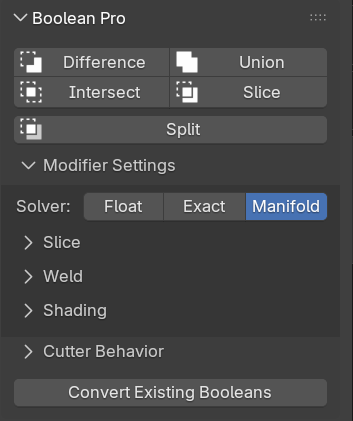
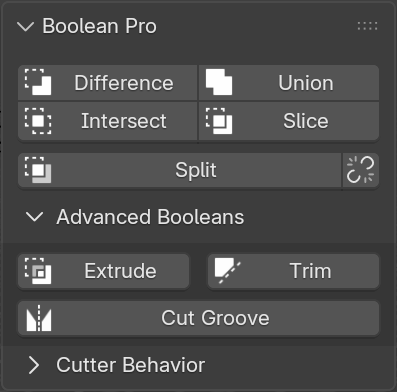
2.0 progress

diff --git a/docs/add-on/boolean_pro.md b/docs/add-on/boolean_pro.md
@@ -2,11 +2,14 @@
 
 ![bpro panel](../assets/add-on/bpro_panel.png)
 
-These tools make it easier to use the [Boolean Pro](../mesh_tools/boolean_pro.md) modifier.
+This panel lets you quickly set up Boolean modifiers on selected geometry. Modifiers are added to the active object, other selected objects will be added as cutters. There are operators for adding the following modifiers:
 
-## Top Panel Operators
+- [Boolean Pro](../mesh_tools/boolean_pro.md)
+- [Boolean Extrude](../mesh_tools/boolean_extrude.md)
+- [Boolean Trim](../mesh_tools/boolean_trim.md)
+- [Cut Groove](../mesh_tools/cut_groove.md)
 
-The top of the panel contains operators for all Boolean Pro modes.
+
 
 <div class="grid cards" markdown>
 
@@ -20,6 +23,12 @@ The top of the panel contains operators for all Boolean Pro modes.
 
 </div>
 
+## Boolean Pro Operators
+
+The top of the panel contains operators for all Boolean Pro modes.
+
+
+
 ### Operations
 
 | Intersect | Union | Difference | Slice |
@@ -31,13 +40,23 @@ The top of the panel contains operators for all Boolean Pro modes.
 The "Split" Operator will duplicate the object:
 
 - The original will get a **Difference** Boolean
-- The duplicate will get a **Intersect** Boolean. There is an option under [Cutter Behavior](#cutter-behavior) to make the intersection object linked.
+- The duplicate will get a **Intersect** Boolean.
+- The duplicate can be a linked copy by toggling the link option next to the button.
+
+## Advanced Boolean Operators
+
+The "Advanced Booleans" section lets you add the following modifiers:
+
+- [Boolean Extrude](../mesh_tools/boolean_extrude.md)
+- [Boolean Trim](../mesh_tools/boolean_trim.md)
+- [Cut Groove](../mesh_tools/cut_groove.md)
+
+
 
 ## Modifier Settings
 
-This section lets you change what settings the Boolean Pro modifiers get **before being added** (Settings for existing modifiers won't be updated).
+To change the default settings for any modifier, use the [Modifier Defaults](./modifier_defaults.md) menu to save defaults from a modifier.
 
-All options in this section are covered on the [Boolean Pro modifier](../mesh_tools/boolean_pro.md) page.
 
 
 ## Cutter Behavior

diff --git a/docs/changelog.md b/docs/changelog.md
@@ -29,25 +29,26 @@
 	- Added option to convert geometry to an instance before mirroring. This works well when using the object as an insert mesh with [Surface Insert](./mesh_tools/surface_insert.md).
 
 ### Pro Add-on
-- Single file download/install for normalMagic Pro (Asset library is now packaged with the add-on.)
-- New Panel: Surface Integration. Contains operators for:
+- Single file download/install for normalMagic Pro (Asset library is now packaged with the add-on)
+- New Panel: [Surface Integration](./add-on/surface_integration.md). Contains operators for:
 	- [Surface Insert](./mesh_tools/surface_insert.md)
 	- [Project to Surface](./mesh_tools/project_to_surface.md)
 	
-- New Panel: Modifier References.
-- New Panel: Object Display.
-- Boolean Pro Panel.
+- New Panel: [Modifier References](./add-on/modifier_references.md)
+- New Panel: [Object Display](./add-on/object_display.md)
+- [Boolean Pro Panel](./add-on/boolean_pro.md)
 	- "Advanced Boolean" sub-panel contains new operators:
 		- [Boolean Extrude](./mesh_tools/boolean_extrude.md)
 		- [Boolean Trim](./mesh_tools/boolean_trim.md)
 		- [Cut Groove](./mesh_tools/cut_groove.md)
-	- Modifier Settings now handled by the modifier defaults system
-- Modifier Menu Header Bar.
-	- [Mark Sharp](./other_tools/mark_sharp.md). Available in the modifier header.
-- Modifier Defaults:
-- Boolean Pro Panel:
+	- Modifier Settings now handled by the [modifier defaults](./add-on/modifier_defaults.md) system
+- [Modifier Header Bar](./add-on/modifier_header.md).
+	- [Mark Sharp](./other_tools/mark_sharp.md). Available in the modifier header
+- [Modifier Defaults](./add-on/modifier_defaults.md). Save default settings for modifiers added via the add-on
+
 
 ----
+
 
 ## 1.1
 

diff --git a/docs/index.md b/docs/index.md
@@ -2,6 +2,15 @@
 
 Welcome to the **normalMagic** documentation. Here you'll find everything there is to know about the tools.
 
+!!! warning "Blender 5.0 Required"
+    normalMagic 2.0 requires **Blender 5.0** or higher. For 4.5 support please use version [1.1](https://spaghetmenot.github.io/normalmagic/1.1/)
+
+!!! warning "2.0 Docs Incomplete"
+    normalMagic 2.0 is currently in Beta and the docs haven't yet been fully updated.
+
+    The best place to get support is the spaghetTools [:simple-discord: Discord](https://discord.gg/CtpZWGHFhG)
+
+
 <div class="grid cards" markdown>
 
 - [:octicons-download-16: Install normalMagic](install.md)
@@ -9,8 +18,6 @@ Welcome to the **normalMagic** documentation. Here you'll find everything there 
 
 </div>
 
-!!! warning "Blender Compatibility"
-    normalMagic 2.0 requires **Blender 5.0** or higher. For 4.5 support please use version [1.1](https://spaghetmenot.github.io/normalmagic/1.1/)
 
 ## Quick Links
 <div class="grid cards" markdown>

diff --git a/docs/add-on/modifier_header.md b/docs/add-on/modifier_header.md
@@ -1,0 +1,19 @@
+# Modifier Header
+
+![modifier header](../assets/add-on/modifier_header.png)
+
+The optional modifier header bar gives quick access to several normalMagic features without using the sidebar. From left to right:
+
+### Expand Arrow
+
+Show the [Modifier References](./modifier_references.md) panel below.
+
+### Operators Bar
+
+A row of buttons for quickly adding normalMagic operators. These can configured in [preferences](./preferences.md). 
+
+All of these allow for multi-object selection, for assigning cutters for example.
+
+### Modifier Defaults
+
+Saves all the settings for the active modifier. This will be used any time a modifier of the same type is added via the add-on. See [here](./modifier_defaults.md) for more info.

diff --git a/docs/add-on/modifier_defaults.md b/docs/add-on/modifier_defaults.md
@@ -1,0 +1,8 @@
+# Modifier Defaults
+
+You can save default settings for any modifier added via the normalMagic add-on (not Blender's 'Add Modifier' menu).
+
+This is achieved through the **Modifier Defaults** menu, available in the modifier panel header bar and the [Modifier References](./modifier_references.md) panel.
+
+![modifier defaults locations](../assets/add-on/modifier_defaults.png)
+

diff --git a/docs/add-on/preferences.md b/docs/add-on/preferences.md
@@ -2,5 +2,7 @@
 
 These options show up under ***Edit/Preferences/Add-ons/normalMagic***
 
+## UI
+
 - **Show Sidebar Panel.** Enable/Disable the add-on's sidebar panel
 - **Category.** Choose which sidebar category the panel is located in

diff --git a/docs/add-on/surface_integration.md b/docs/add-on/surface_integration.md
@@ -1,0 +1,1 @@
+# :construction: Surface Integration
